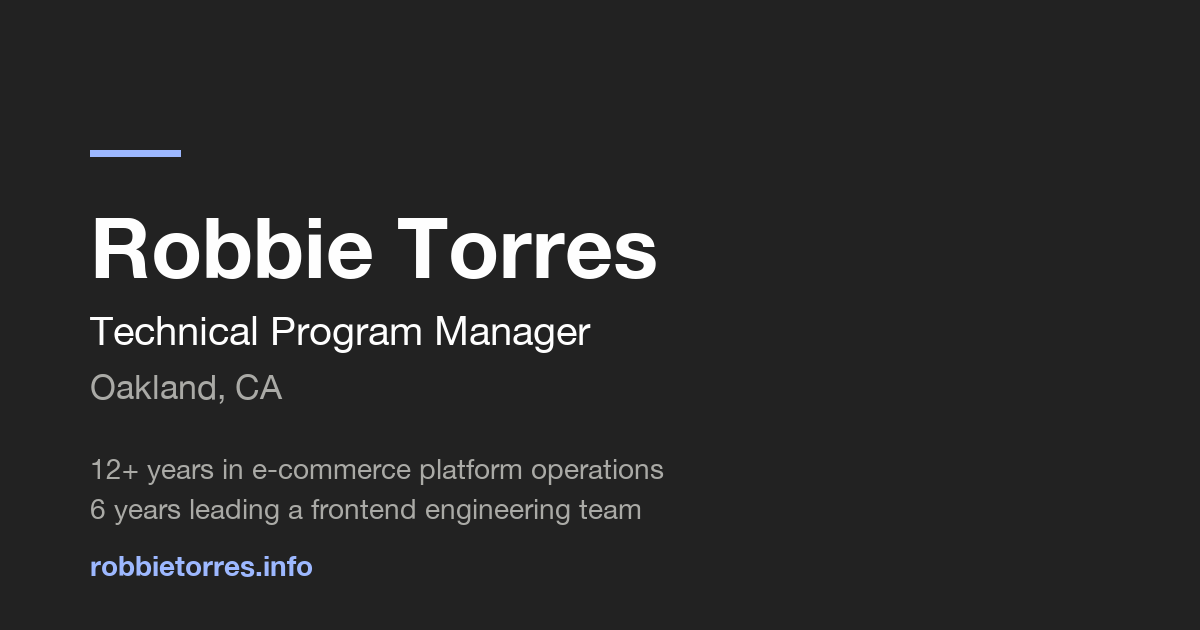
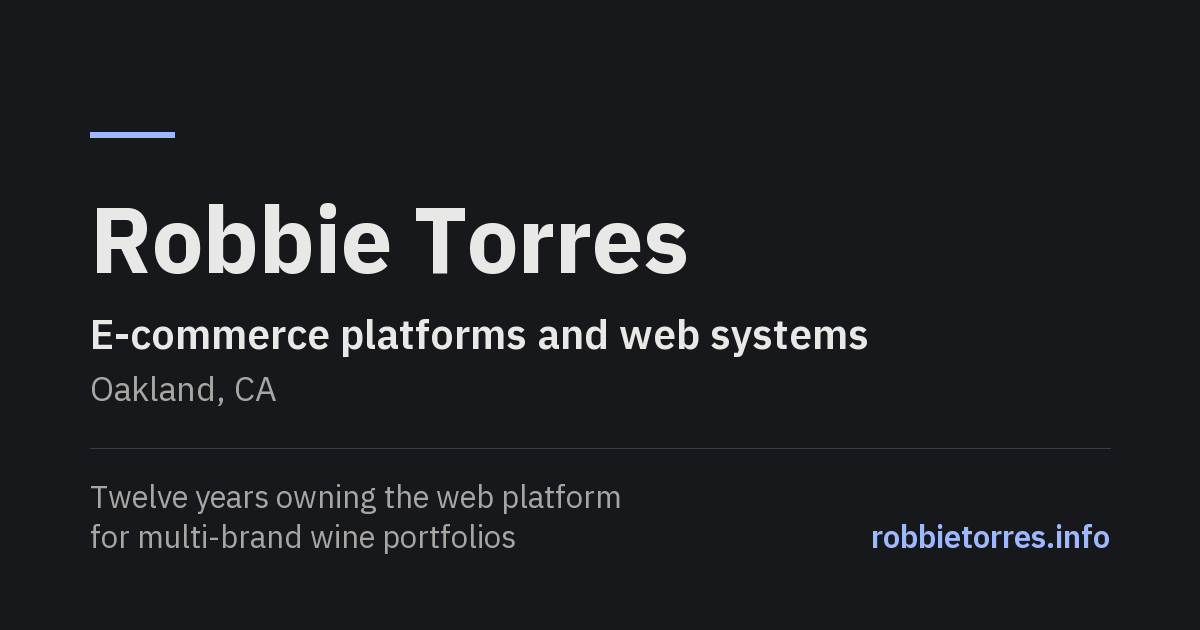
Rebuild the social preview card
The old card still read "Technical Program Manager", stale since the
homepage reframe, and services/ described it that way in og:image:alt
and twitter:image:alt while index/ had already been updated. Image and
alt text now agree on every page.

Rebuilt using the site's own IBM Plex Sans, converted from the
self-hosted woff2 and instanced to static weights so Pillow renders the
intended cut rather than a system fallback. Palette is the site's dark
theme tokens, so the card and a dark-mode visit look like the same
thing.

Card reads: name, "E-commerce platforms and web systems", Oakland CA,
then the hero line and the URL. Checked at 552, 360 and 300px, the
widths LinkedIn, Slack and iMessage actually render: name and role stay
legible at all three, supporting line degrades as intended.

diff --git a/services/index.html b/services/index.html
@@ -23,12 +23,12 @@
     <meta property="og:image" content="https://robbietorres.info/assets/og-image.png">
     <meta property="og:image:width" content="1200">
     <meta property="og:image:height" content="630">
-    <meta property="og:image:alt" content="Robbie Torres — Technical Program Manager, Oakland, CA">
+    <meta property="og:image:alt" content="Robbie Torres — E-commerce platforms and web systems, Oakland, CA">
     <meta name="twitter:card" content="summary_large_image">
     <meta name="twitter:title" content="Digital Services for Small Businesses — Robbie Torres">
     <meta name="twitter:description" content="Web design, SEO, Google Ads, email marketing, and analytics for Oakland and Bay Area small businesses.">
     <meta name="twitter:image" content="https://robbietorres.info/assets/og-image.png">
-    <meta name="twitter:image:alt" content="Robbie Torres — Technical Program Manager, Oakland, CA">
+    <meta name="twitter:image:alt" content="Robbie Torres — E-commerce platforms and web systems, Oakland, CA">
 
     <script type="application/ld+json">
     {
